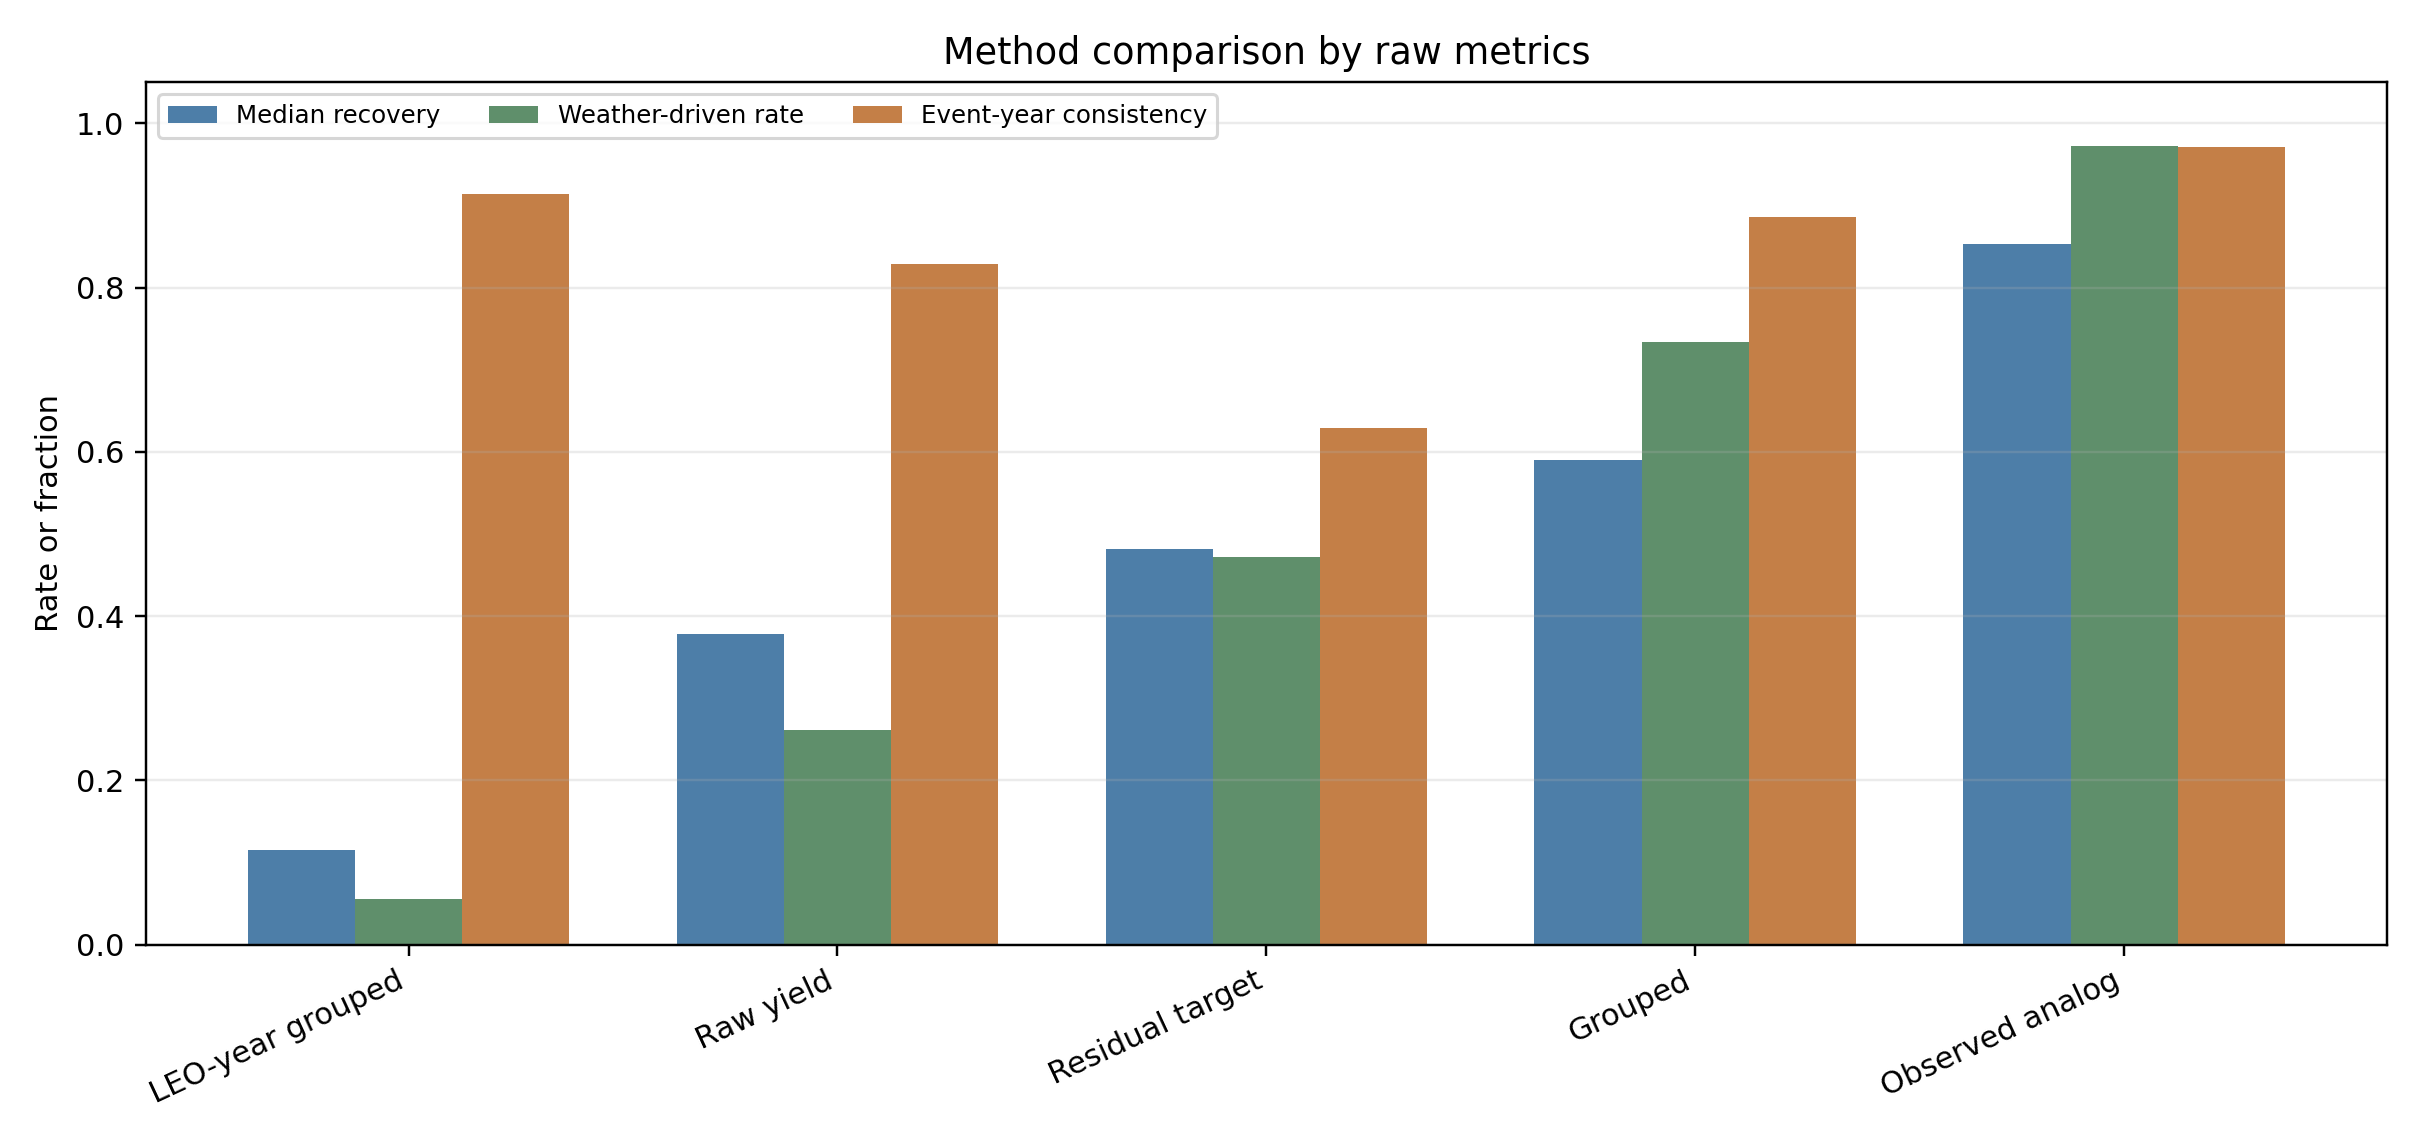
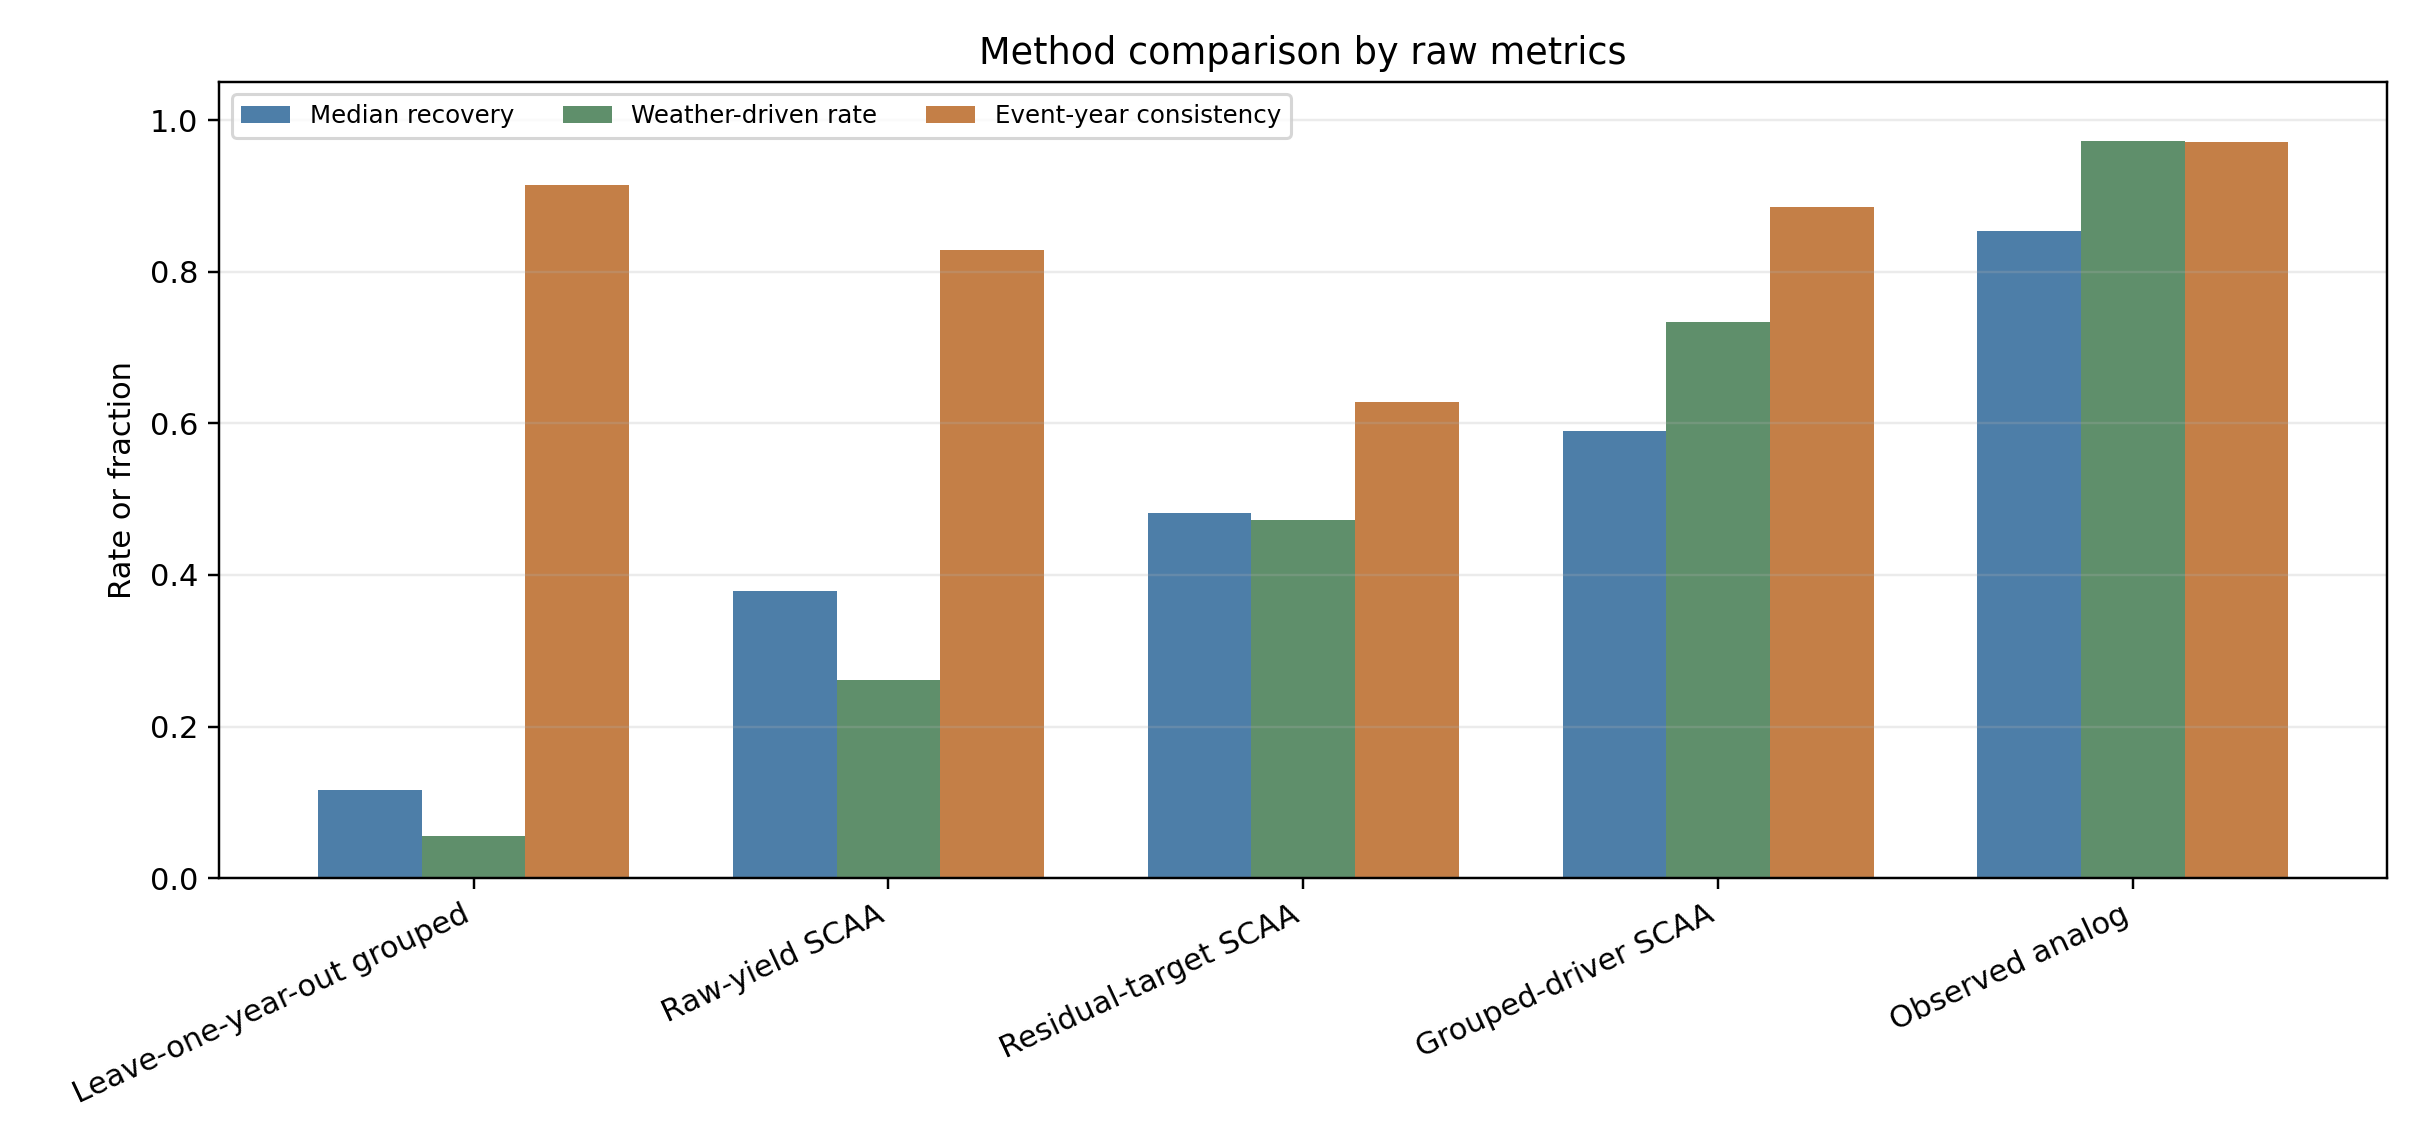
Apply final minor manuscript fixes

diff --git a/scripts/build_paper_assets.py b/scripts/build_paper_assets.py
@@ -27,16 +27,16 @@ METHOD_LABELS = {
     "00_baseline_v1_raw_yield_scaa": "Raw-yield SCAA",
     "01_residual_target_scaa": "Residual-target SCAA",
     "02_grouped_driver_scaa": "Grouped-driver SCAA",
-    "06_grouped_driver_scaa_temporal_holdout": "Leave-one-year-out grouped SCAA",
+    "06_grouped_driver_scaa_temporal_holdout": "Leave-one-event-year-out grouped SCAA",
     "03_observed_analog_counterfactual": "Observed-analog counterfactual",
 }
 
 
 METHOD_SHORT_LABELS = {
-    "00_baseline_v1_raw_yield_scaa": "Raw yield",
-    "01_residual_target_scaa": "Residual target",
-    "02_grouped_driver_scaa": "Grouped",
-    "06_grouped_driver_scaa_temporal_holdout": "LEO-year grouped",
+    "00_baseline_v1_raw_yield_scaa": "Raw-yield SCAA",
+    "01_residual_target_scaa": "Residual-target SCAA",
+    "02_grouped_driver_scaa": "Grouped-driver SCAA",
+    "06_grouped_driver_scaa_temporal_holdout": "Leave-one-year-out grouped",
     "03_observed_analog_counterfactual": "Observed analog",
 }
 
@@ -228,6 +228,29 @@ def latex_table(df: pd.DataFrame, caption: str, label: str, index: bool = False)
         lines.append(" & ".join(latex_escape(row[c]) for c in cols) + r" \\")
     lines.extend([r"\bottomrule", r"\end{tabular}%", r"}", r"\end{table}"])
     return "\n".join(lines) + "\n"
+
+
+def write_event_null_table(df: pd.DataFrame) -> None:
+    csv_path = TABLE_CSV / "table09_event_null_baselines.csv"
+    tex_path = TABLES / "table09_event_null_baselines.tex"
+    df.to_csv(csv_path, index=False)
+    cols = ["Method", "Expected match rate", "Median recovery", "n event rows"]
+    lines = [
+        r"\begin{table}[!htbp]",
+        r"\centering",
+        r"\caption{Null baselines for event-year consistency checks.}",
+        r"\label{tab:event_null_baselines}",
+        r"\small",
+        r"\renewcommand{\arraystretch}{1.12}",
+        r"\begin{tabular*}{\linewidth}{@{\extracolsep{\fill}}lccc@{}}",
+        r"\toprule",
+        " & ".join(latex_escape(c) for c in cols) + r" \\",
+        r"\midrule",
+    ]
+    for _, row in df.iterrows():
+        lines.append(" & ".join(latex_escape(row[c]) for c in cols) + r" \\")
+    lines.extend([r"\bottomrule", r"\end{tabular*}", r"\end{table}"])
+    tex_path.write_text("\n".join(lines) + "\n", encoding="utf-8")
 
 
 def anomaly_keys(df: pd.DataFrame) -> set[tuple[str, str, int]]:
@@ -508,29 +531,23 @@ def build_tables(data: dict[str, pd.DataFrame]) -> None:
 
     null_table = event_nulls.copy()
     null_method_labels = {
-        "Most frequent driver (heat)": "Most frequent driver",
-        "Retrospective leave-one-event-year-out grouped SCAA": "Leave-one-year-out grouped SCAA",
-    }
-    null_interpretations = {
-        "Always drought": "Broad drought-label baseline.",
-        "Always heat": "Broad heat-label baseline.",
-        "Most frequent driver": "Majority-driver baseline.",
-        "Driver-frequency random": "Driver-frequency baseline.",
-        "Leave-one-year-out grouped SCAA": "Main diagnostic method.",
+        "Retrospective leave-one-event-year-out grouped SCAA": "Leave-one-event-year-out grouped SCAA",
     }
     null_table["method"] = null_table["method"].map(lambda x: null_method_labels.get(x, x))
-    null_table["expected_match_rate"] = null_table["expected_match_rate"].map(lambda x: round(float(x), 3))
+    null_table["expected_match_rate"] = null_table["expected_match_rate"].map(lambda x: f"{float(x):.3f}")
     null_table["median_recoverable_fraction"] = null_table["median_recoverable_fraction"].map(
-        lambda x: "--" if pd.isna(x) or x == "" else round(float(x), 3)
+        lambda x: "--" if pd.isna(x) or x == "" else f"{float(x):.3f}"
     )
-    null_table["interpretation"] = null_table["method"].map(null_interpretations).fillna(null_table["interpretation"])
-    write_csv_and_tex(
-        null_table,
-        TABLES / "table09_event_null_baselines.csv",
-        TABLES / "table09_event_null_baselines.tex",
-        "Null baselines for event-year consistency checks.",
-        "tab:event_null_baselines",
-    )
+    null_table["n_event_rows"] = null_table["n_event_rows"].astype(int)
+    null_table = null_table.rename(
+        columns={
+            "method": "Method",
+            "expected_match_rate": "Expected match rate",
+            "median_recoverable_fraction": "Median recovery",
+            "n_event_rows": "n event rows",
+        }
+    )[["Method", "Expected match rate", "Median recovery", "n event rows"]]
+    write_event_null_table(null_table)
 
     vuln_table = vulnerability.sort_values("median_effect_t_ha").head(7)[
         ["crop", "driver_group", "median_effect_t_ha", "effect_direction", "states_most_sensitive"]
@@ -745,7 +762,7 @@ def fig_grouped_attribution(grouped: pd.DataFrame) -> None:
     axes[0].axvline(0.5, color="black", linestyle="--", linewidth=1)
     axes[0].set_xlabel("Recoverable fraction")
     axes[0].set_ylabel("Anomaly count")
-    axes[0].set_title("Temporal-holdout grouped-SCAA recovery")
+    axes[0].set_title("Leave-one-event-year-out grouped-SCAA recovery")
     counts = grouped["driver_group"].value_counts().sort_values()
     counts.plot(kind="barh", ax=axes[1], color="#8b6f47")
     axes[1].set_xlabel("Attributed anomalies")

diff --git a/paper/latex_source/tables/table09_event_null_baselines.tex b/paper/latex_source/tables/table09_event_null_baselines.tex
@@ -2,17 +2,17 @@
 \centering
 \caption{Null baselines for event-year consistency checks.}
 \label{tab:event_null_baselines}
-\resizebox{\linewidth}{!}{%
-\begin{tabular}{lllll}
+\small
+\renewcommand{\arraystretch}{1.12}
+\begin{tabular*}{\linewidth}{@{\extracolsep{\fill}}lccc@{}}
 \toprule
-method & expected\_match\_rate & median\_recoverable\_fraction & n\_event\_rows & interpretation \\
+Method & Expected match rate & Median recovery & n event rows \\
 \midrule
-Always drought & 1.0 & -- & 35 & Broad drought-label baseline. \\
-Always heat & 1.0 & -- & 35 & Broad heat-label baseline. \\
-Most frequent driver & 1.0 & -- & 35 & Majority-driver baseline. \\
-Driver-frequency random & 0.896 & -- & 35 & Driver-frequency baseline. \\
-Leave-one-year-out grouped SCAA & 0.914 & 0.182 & 35 & Main diagnostic method. \\
+Always drought & 1.000 & -- & 35 \\
+Always heat & 1.000 & -- & 35 \\
+Most frequent driver (heat) & 1.000 & -- & 35 \\
+Driver-frequency random & 0.896 & -- & 35 \\
+Leave-one-event-year-out grouped SCAA & 0.914 & 0.182 & 35 \\
 \bottomrule
-\end{tabular}%
-}
+\end{tabular*}
 \end{table}

diff --git a/paper/latex_source/main.tex b/paper/latex_source/main.tex
@@ -319,16 +319,17 @@ leave-one-event-year-out grouped SCAA matches the pre-specified expected groups 
 91.4\% of event-year rows: 100\% in 2012, 100\% in 2021, and 76.9\% in 2022.
 
 The null baselines in Table~\ref{tab:event_null_baselines} show why this result should
-be treated cautiously. Always assigning drought, always assigning heat, or assigning
-the most frequent event-year SCAA driver also matches 100\% of the broad expected
-stress groups. The event-year consistency check is therefore retained as a limited
-sanity check that the model outputs do not contradict the pre-specified stress
-categories, not as evidence that SCAA outperforms trivial event labels.
+be treated cautiously.
 
 \input{tables/table09_event_null_baselines.tex}
 
+The first three baselines show that the broad heat/drought labels are easy to match.
+Therefore, event-year consistency is retained only as a sanity check that SCAA does
+not contradict known stress categories, not as primary validation or evidence of
+superiority over trivial labels.
+
 The detailed event-evidence table and event-year consistency panel are provided in the
-separate supplementary file to keep the main manuscript focused on the core diagnostic
+Supplementary Material to keep the main manuscript focused on the core diagnostic
 result.
 
 \subsection{Crop-Specific Vulnerability and Early Warning}
@@ -349,7 +350,7 @@ with median effect $-0.086$ t ha$^{-1}$.
 \end{figure}
 
 Early-warning metrics and the early-versus-mid-season comparison figure are provided
-in the separate supplementary file. The extension is exploratory because anomaly labels
+in the Supplementary Material. The extension is exploratory because anomaly labels
 and detrending are defined retrospectively in this version.
 
 \section{Discussion}
@@ -395,7 +396,7 @@ crop-yield prediction, interpretable machine learning, and cautious diagnostic
 event-level weather-driver analysis.
 
 Additional driver-feature, robustness, event-consistency, and early-warning materials
-are provided in the separate Overleaf source file \texttt{supplement.tex}.
+are provided in the Supplementary Material.
 
 \bibliographystyle{plainnat}
 \bibliography{references}

diff --git a/paper/latex_source/supplement/tableS06_event_consistency_summary.tex b/paper/latex_source/supplement/tableS06_event_consistency_summary.tex
@@ -7,9 +7,9 @@
 \toprule
 method & year & n\_events & expected\_match\_rate & median\_recoverable \\
 \midrule
-Leave-one-year-out grouped SCAA & 2012 & 3 & 1.0 & 0.488 \\
-Leave-one-year-out grouped SCAA & 2021 & 19 & 1.0 & 0.18 \\
-Leave-one-year-out grouped SCAA & 2022 & 13 & 0.769 & 0.182 \\
+Leave-one-event-year-out grouped SCAA & 2012 & 3 & 1.0 & 0.488 \\
+Leave-one-event-year-out grouped SCAA & 2021 & 19 & 1.0 & 0.18 \\
+Leave-one-event-year-out grouped SCAA & 2022 & 13 & 0.769 & 0.182 \\
 \bottomrule
 \end{tabular}%
 }

diff --git a/paper/latex_source/tables/table04_method_scorecard.tex b/paper/latex_source/tables/table04_method_scorecard.tex
@@ -10,7 +10,7 @@ method & median\_recoverable\_fraction & weather\_driven\_rate & event\_expected
 Raw-yield SCAA & 0.379 & 0.262 & 0.829 \\
 Residual-target SCAA & 0.482 & 0.472 & 0.629 \\
 Grouped-driver SCAA & 0.589 & 0.734 & 0.886 \\
-Leave-one-year-out grouped SCAA & 0.116 & 0.056 & 0.914 \\
+Leave-one-event-year-out grouped SCAA & 0.116 & 0.056 & 0.914 \\
 Observed-analog counterfactual & 0.853 & 0.972 & 0.971 \\
 \bottomrule
 \end{tabular}%